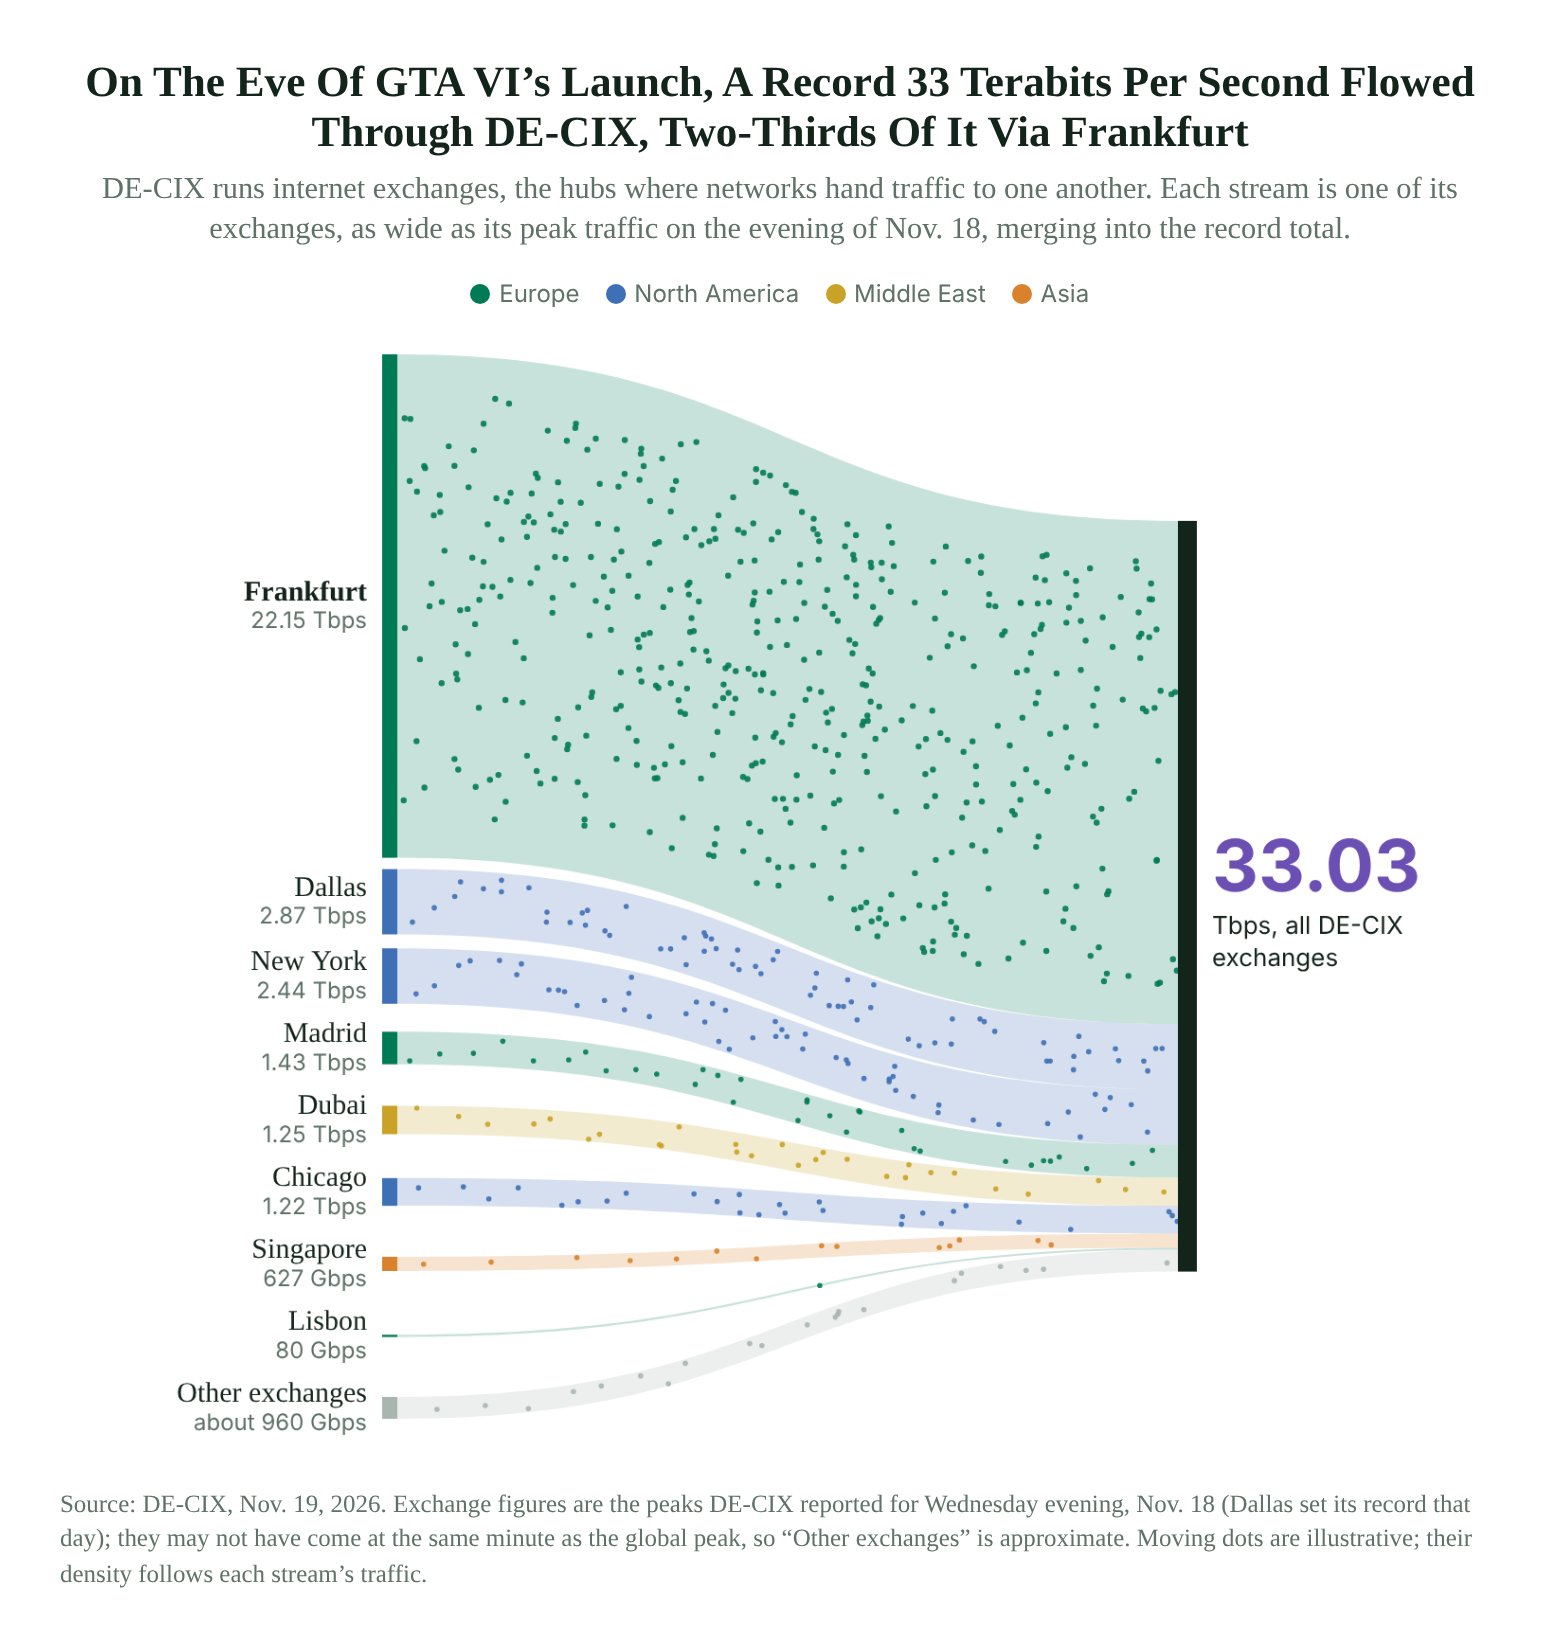
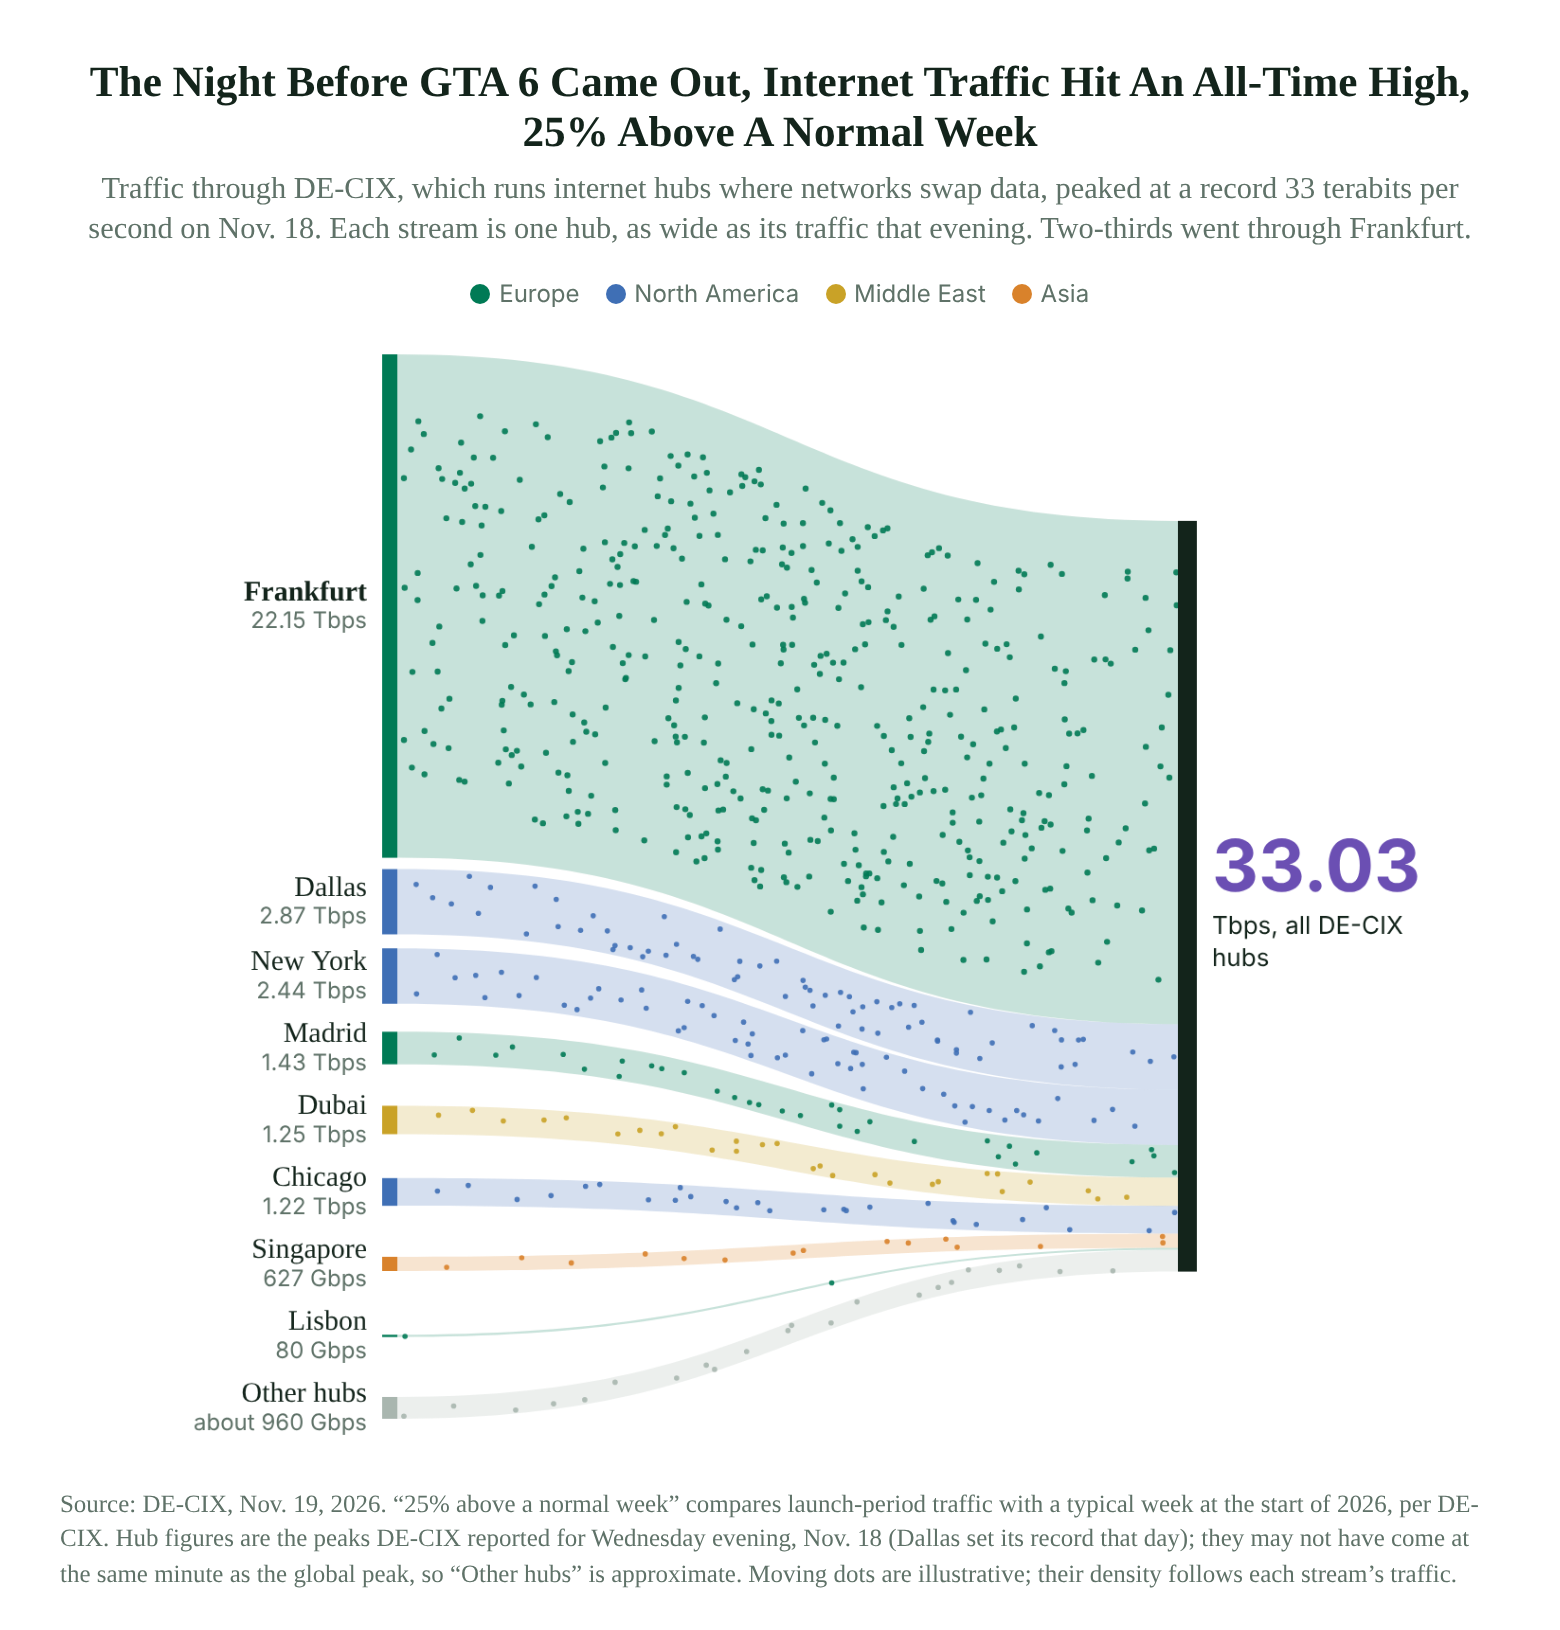
GTA flow: plain-language title, hubs wording
Claude-Session: https://claude.ai/code/session_01DsVn62vh9YHra7AHGauuvq

diff --git a/gta/embed.js b/gta/embed.js
@@ -126,11 +126,11 @@ function dl(box){
 
 /* ---------- 4. flow: exchanges merging into the record ---------- */
 var FLOW=[['Frankfurt',22.15,'eu'],['Dallas',2.87,'na'],['New York',2.44,'na'],['Madrid',1.43,'eu'],['Dubai',1.25,'me'],['Chicago',1.22,'na'],['Singapore',0.627,'as'],['Lisbon',0.0799,'eu']];
-var REG={eu:['Europe','#007a55'],na:['North America','#3f6fb5'],me:['Middle East','#c9a227'],as:['Asia','#d9822b'],ot:['Other exchanges','#a9b6af']};
+var REG={eu:['Europe','#007a55'],na:['North America','#3f6fb5'],me:['Middle East','#c9a227'],as:['Asia','#d9822b'],ot:['Other hubs','#a9b6af']};
 function flowChart(box){
  var narrow=box.clientWidth<520,TOTAL=33.03;
- var named=FLOW.reduce(function(a,d){return a+d[1];},0),rows=FLOW.concat([['Other exchanges',Math.round((TOTAL-named)*100)/100,'ot']]);
- frame(box,'On The Eve Of GTA VI’s Launch, A Record 33 Terabits Per Second Flowed Through DE-CIX, Two-Thirds Of It Via Frankfurt','DE-CIX runs internet exchanges, the hubs where networks hand traffic to one another. Each stream is one of its exchanges, as wide as its peak traffic on the evening of Nov. 18, merging into the record total.');
+ var named=FLOW.reduce(function(a,d){return a+d[1];},0),rows=FLOW.concat([['Other hubs',Math.round((TOTAL-named)*100)/100,'ot']]);
+ frame(box,'The Night Before GTA 6 Came Out, Internet Traffic Hit An All-Time High, 25% Above A Normal Week','Traffic through DE-CIX, which runs internet hubs where networks swap data, peaked at a record 33 terabits per second on Nov. 18. Each stream is one hub, as wide as its traffic that evening. Two-thirds went through Frankfurt.');
  var k=document.createElement('div');k.className='gt-key';['eu','na','me','as'].forEach(function(c){var s=document.createElement('span');s.innerHTML='<i style="background:'+REG[c][1]+'"></i>'+REG[c][0];k.appendChild(s);});box.appendChild(k);
  var W=narrow?400:760,lab=narrow?112:170,gap=6,top=16,sc=narrow?10:12,minS=narrow?30:32;
  var H=top*2+gap*(rows.length-1)+rows.reduce(function(a,d){return a+Math.max(d[1]*sc,minS);},0);
@@ -153,7 +153,7 @@ function flowChart(box){
    g.textAlign='right';g.textBaseline='middle';g.fillStyle=INK;g.font=(big?'bold ':'')+(narrow?13:15)+'px "Times New Roman",Times,serif';g.fillText(b.d[0],xL-8,cy-(narrow?6:7));
    g.fillStyle=MUTED;g.font=(narrow?10.5:12)+'px -apple-system,"Helvetica Neue",Arial,sans-serif';g.fillText((b.d[2]==='ot'?'about ':'')+fmt(b.d[1]),xL-8,cy+(narrow?7:8));});
   var cy=H/2;g.textAlign='left';g.fillStyle=PURPLE;g.font='bold '+(narrow?24:38)+'px -apple-system,"Helvetica Neue",Arial,sans-serif';g.fillText('33.03',xR+nodeW+10,cy-(narrow?10:14));
-  g.fillStyle=INK;g.font=(narrow?10.5:13)+'px -apple-system,"Helvetica Neue",Arial,sans-serif';g.fillText(narrow?'Tbps, all':'Tbps, all DE-CIX',xR+nodeW+10,cy+(narrow?12:16));if(narrow){g.fillText('DE-CIX',xR+nodeW+10,cy+26);g.fillText('exchanges',xR+nodeW+10,cy+40);}else g.fillText('exchanges',xR+nodeW+10,cy+33);
+  g.fillStyle=INK;g.font=(narrow?10.5:13)+'px -apple-system,"Helvetica Neue",Arial,sans-serif';g.fillText(narrow?'Tbps, all':'Tbps, all DE-CIX',xR+nodeW+10,cy+(narrow?12:16));if(narrow){g.fillText('DE-CIX',xR+nodeW+10,cy+26);g.fillText('hubs',xR+nodeW+10,cy+40);}else g.fillText('hubs',xR+nodeW+10,cy+33);
  }
  var reduce=window.matchMedia&&matchMedia('(prefers-reduced-motion: reduce)').matches,running=false,last=0,acc=bands.map(function(){return 0;});
  function step(ts){if(!running)return;var dt=Math.min((ts-(last||ts))/1000,.05);last=ts;
@@ -163,10 +163,10 @@ function flowChart(box){
  draw();
  cardEl=card(box,'Hover or tap a stream. Frankfurt alone carried two-thirds of the record.');
  function pick(ev){var r=cv.getBoundingClientRect(),py=(ev.clientY-r.top)*H/r.height,px=(ev.clientX-r.left)*W/r.width;var best=-1;bands.forEach(function(b,i){var cy=b.y0+b.h/2;if(px<xR&&Math.abs(py-cy)<Math.max(b.h/2,minS/2))best=i;});return best;}
- function sel(i){hover=i;if(i>=0){var b=bands[i];cardEl.innerHTML='<b>'+b.d[0]+'</b>: '+(b.d[2]==='ot'?'about ':'')+fmt(b.d[1])+', '+Math.round(b.d[1]/TOTAL*100)+'% of the record'+(b.d[2]==='ot'?'. This is what is left after the exchanges DE-CIX named.':'.');}if(reduce||!running)draw();}
+ function sel(i){hover=i;if(i>=0){var b=bands[i];cardEl.innerHTML='<b>'+b.d[0]+'</b>: '+(b.d[2]==='ot'?'about ':'')+fmt(b.d[1])+', '+Math.round(b.d[1]/TOTAL*100)+'% of the record'+(b.d[2]==='ot'?'. This is what is left after the hubs DE-CIX named.':'.');}if(reduce||!running)draw();}
  cv.addEventListener('mousemove',function(ev){sel(pick(ev));});cv.addEventListener('mouseleave',function(){sel(-1);});cv.addEventListener('click',function(ev){sel(pick(ev));});
  if(!reduce)seen(cv,function(){running=true;requestAnimationFrame(step);});
- src(box,'Source: DE-CIX, Nov. 19, 2026. Exchange figures are the peaks DE-CIX reported for Wednesday evening, Nov. 18 (Dallas set its record that day); they may not have come at the same minute as the global peak, so “Other exchanges” is approximate. Moving dots are illustrative; their density follows each stream’s traffic.');
+ src(box,'Source: DE-CIX, Nov. 19, 2026. “25% above a normal week” compares launch-period traffic with a typical week at the start of 2026, per DE-CIX. Hub figures are the peaks DE-CIX reported for Wednesday evening, Nov. 18 (Dallas set its record that day); they may not have come at the same minute as the global peak, so “Other hubs” is approximate. Moving dots are illustrative; their density follows each stream’s traffic.');
 }
 
 function boot(){var m={'nid-gt-ladder':function(b){ladder(b,false);},'nid-gt-home':function(b){ladder(b,true);},'nid-gt-streams':streams,'nid-gt-dl':dl,'nid-gt-flow':flowChart};Object.keys(m).forEach(function(id){var b=document.getElementById(id);if(b&&!b.dataset.done){b.dataset.done=1;m[id](b);}});}
